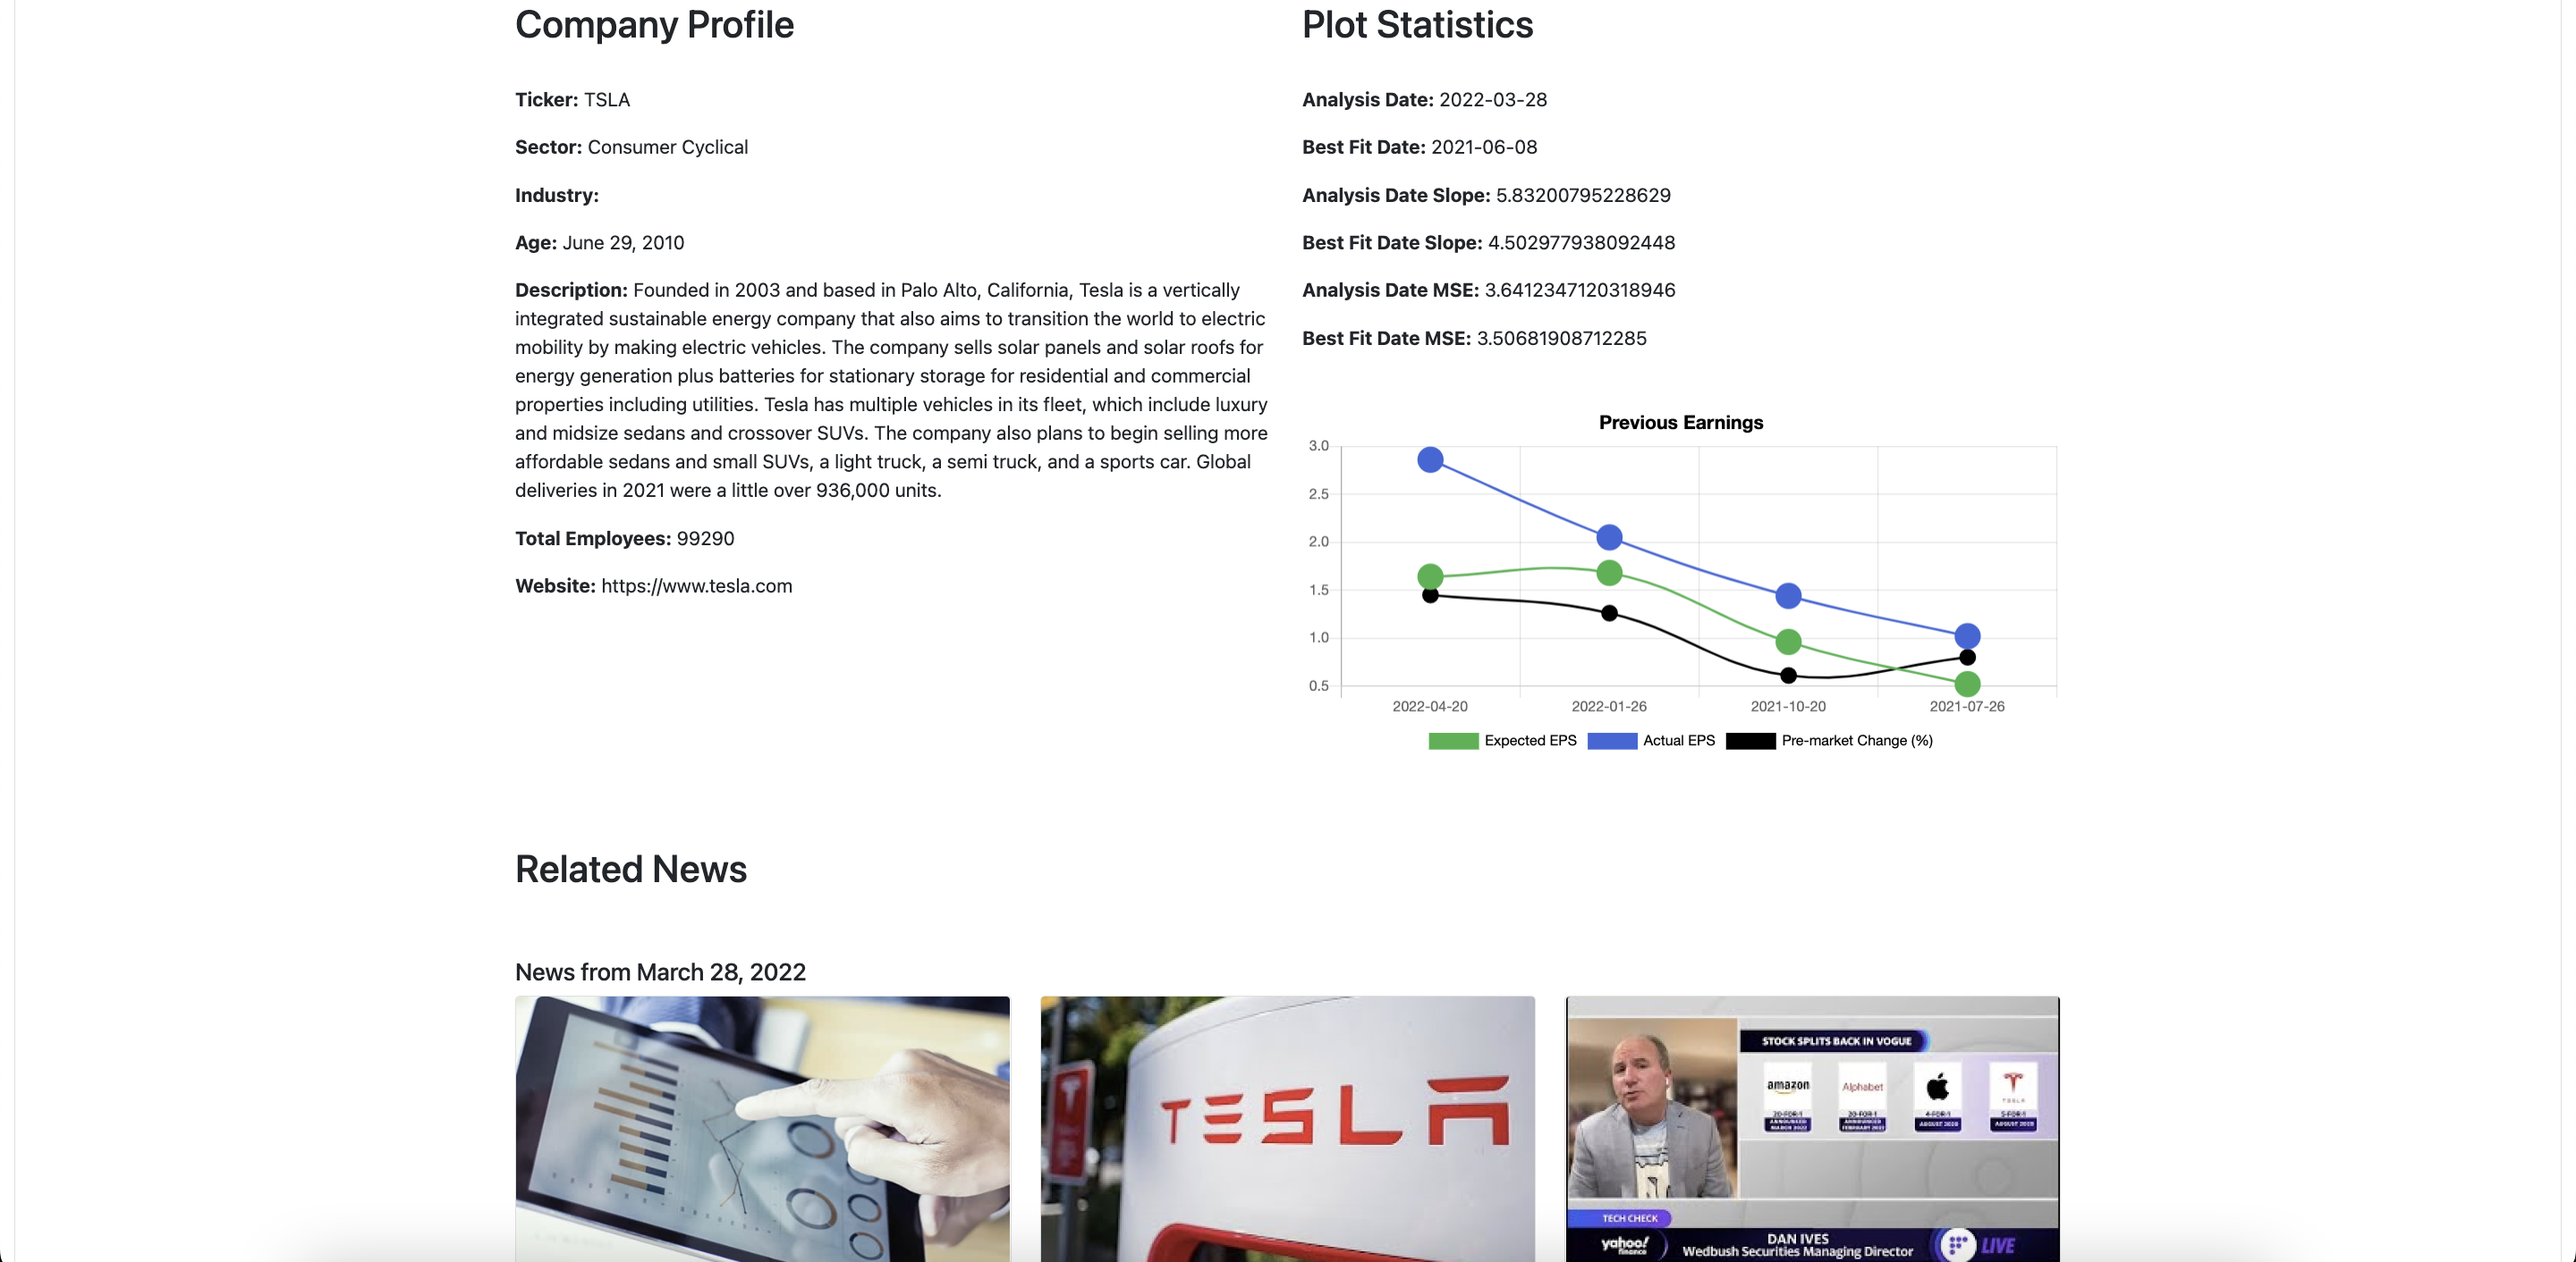
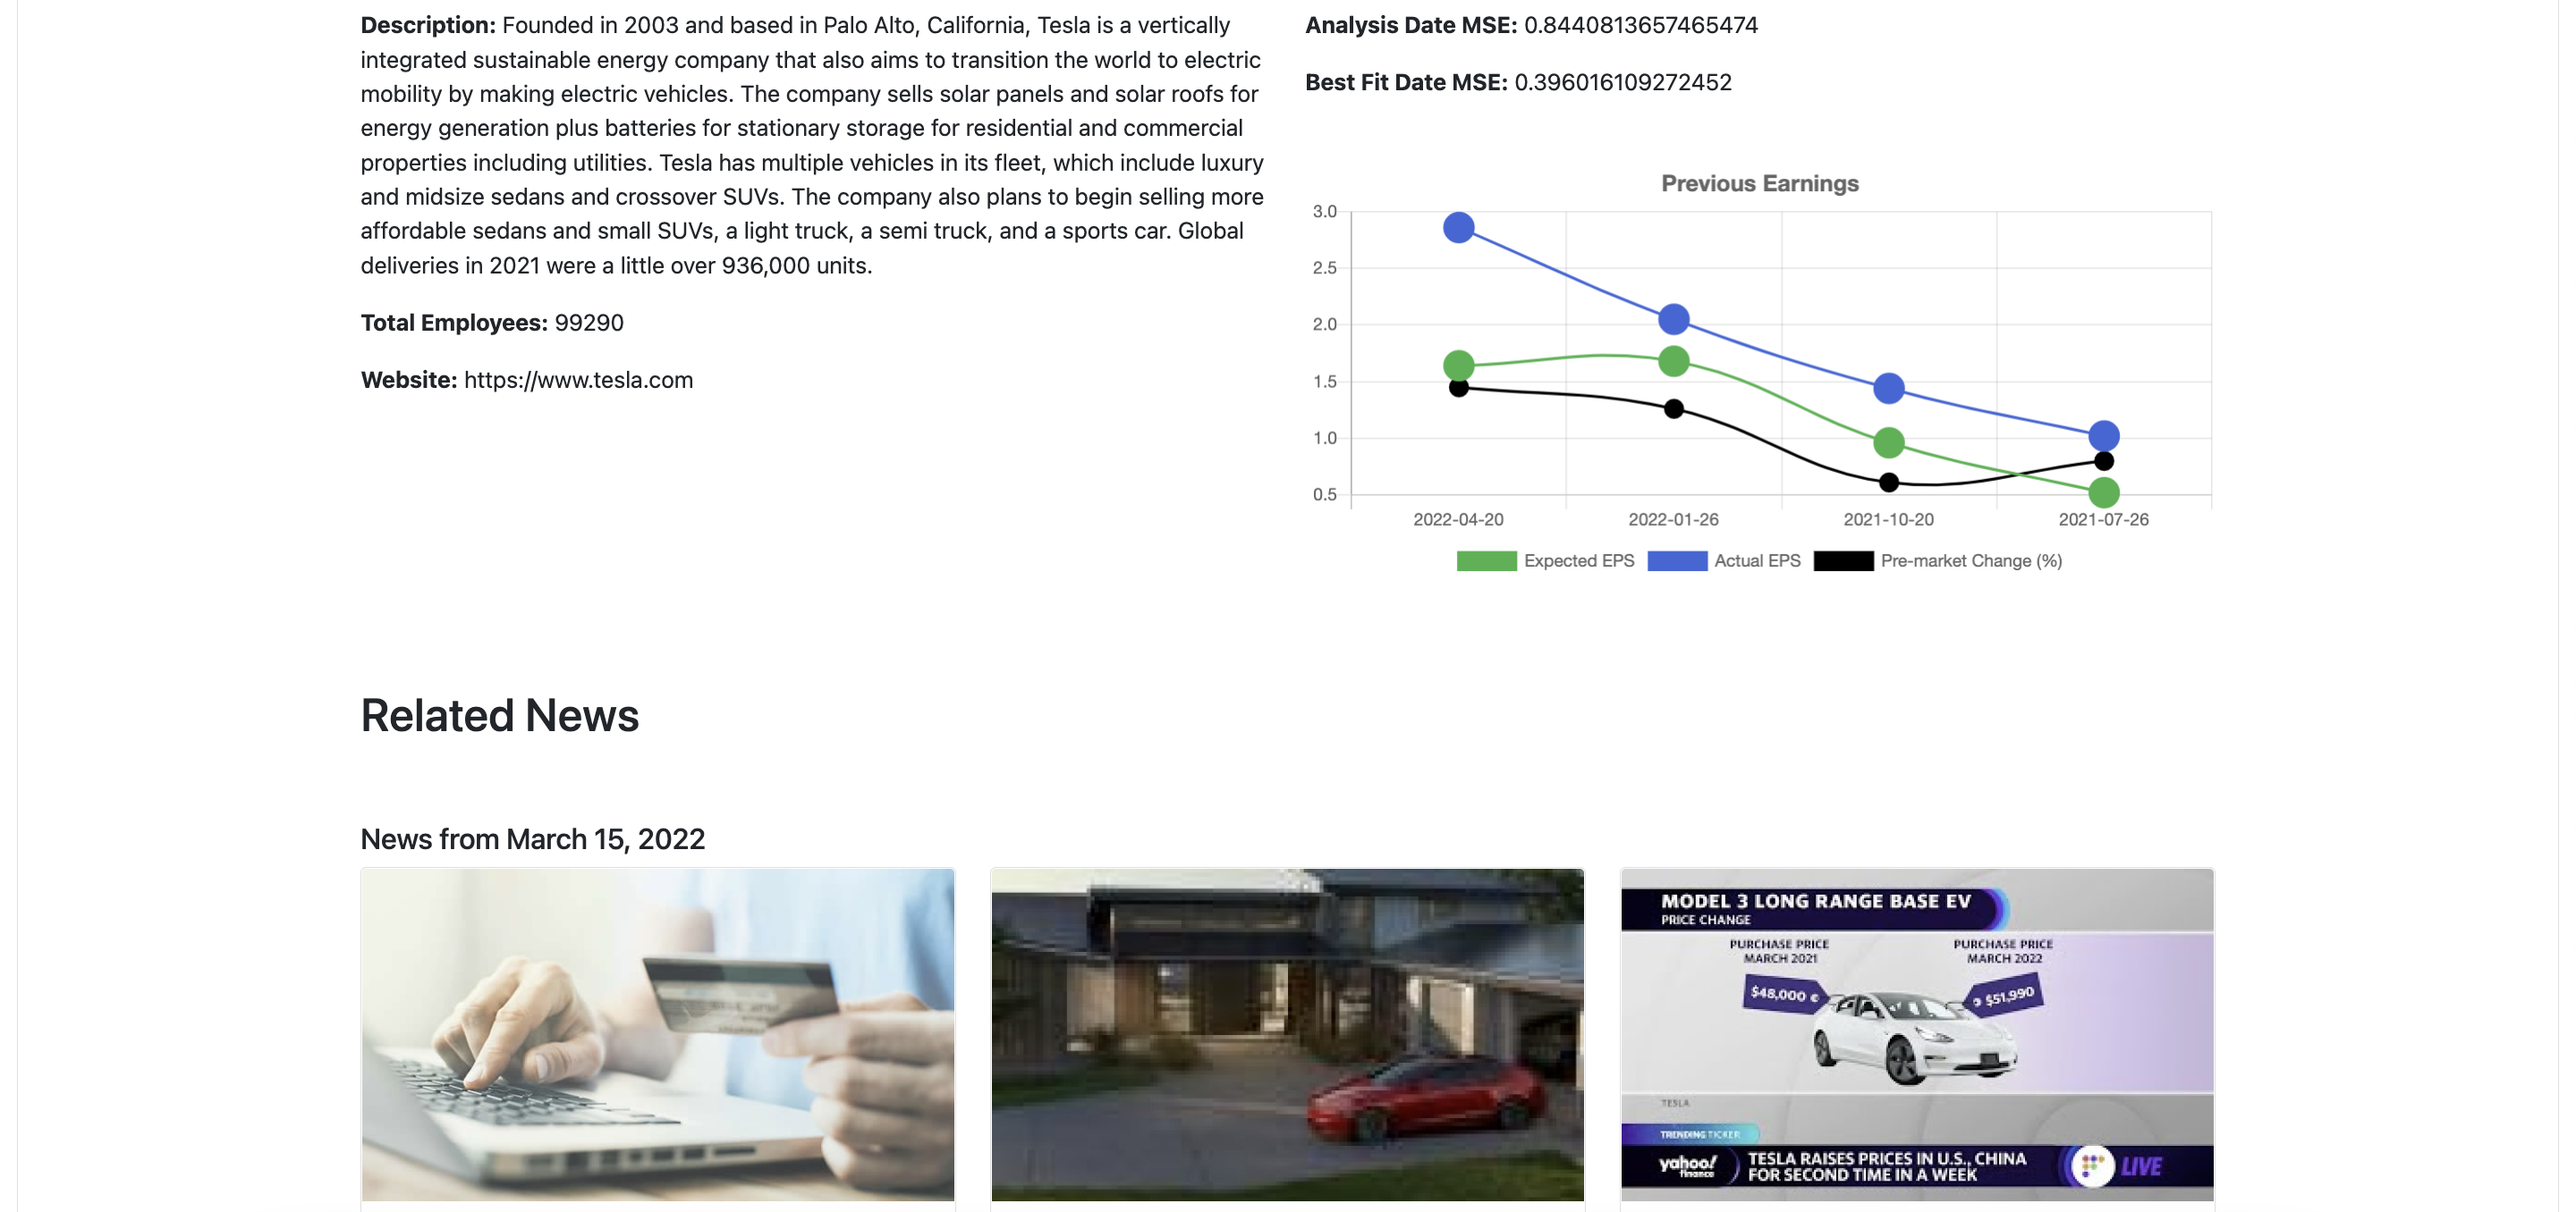
small ui update and updated ss

diff --git a/homepage/views.py b/homepage/views.py
@@ -221,13 +221,13 @@ def index(request):
                     "text": "Previous Earnings", 
                     "display": True, 
                     "fontSize": 16,
-                    'fontColor': Color.Black
+                    'fontColor': Color.RGBA(102,102,102,1)
                     }
 
                 legend = {
                     'position': 'bottom', 
                     'labels': {
-                        'fontColor': Color.Black, 
+                        'fontColor': Color.RGBA(102,102,102,1),
                         'fullWidth': True
                         }
                     }
